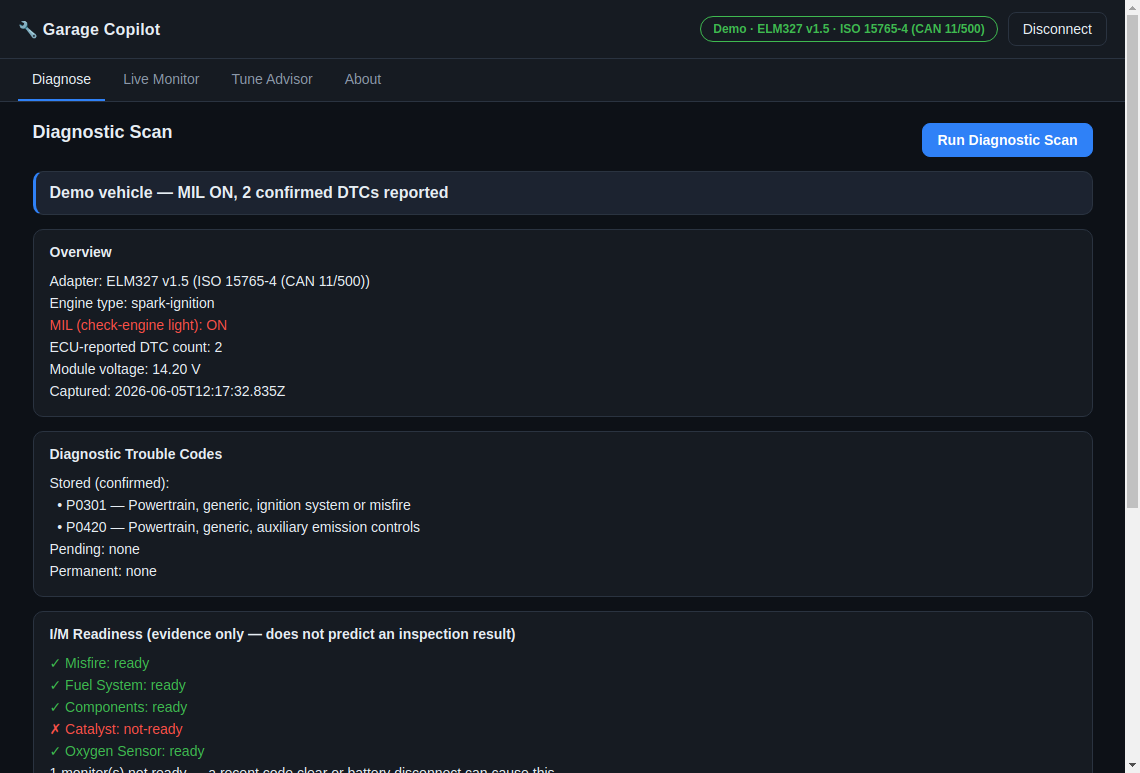
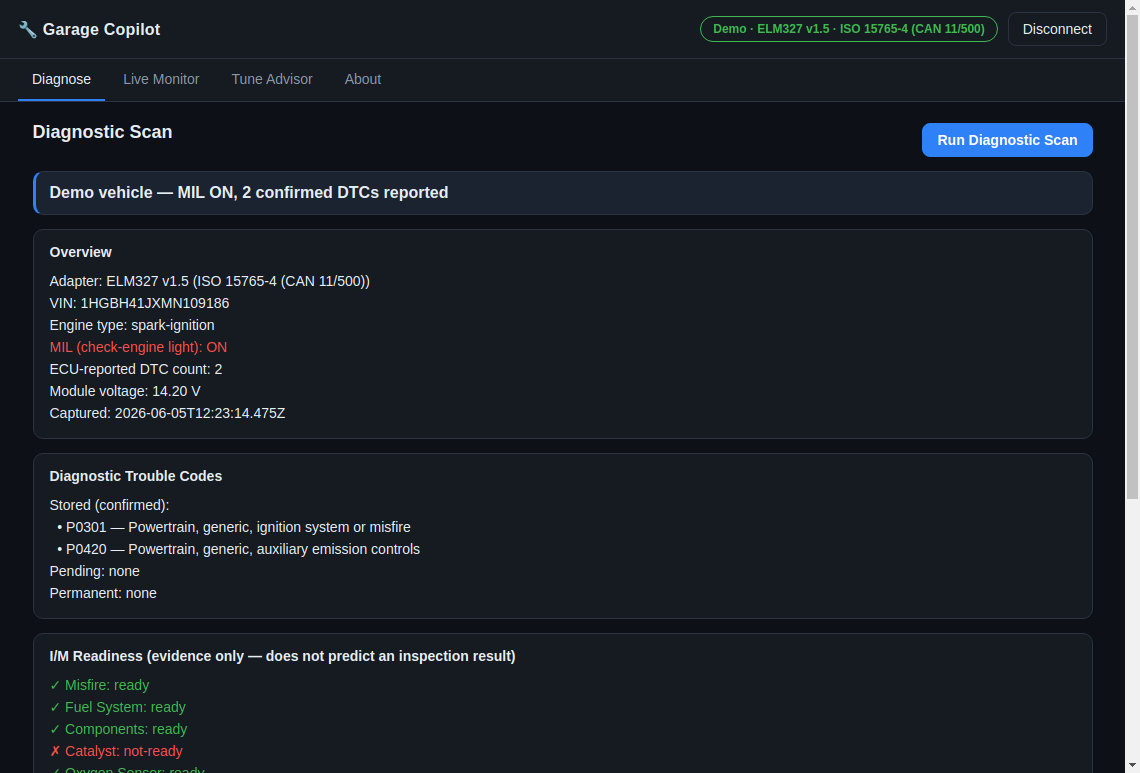
Engine: read VIN over OBD Mode 09 and surface it in diagnostics
Adds VIN reading (Mode 09 PID 02) to the ELM327 driver with a tolerant decoder
that handles single- and multi-frame ISO-TP responses (strips frame indices,
keeps printable ASCII after the 49 02 header). Threads the VIN through the
diagnostic snapshot and report overview, with a demo recording and tests
(including an isValidVin check). The desktop GUI shows it automatically via the
shared engine.

Changed region(s): [[0.0307, 0.3726, 0.3684, 0.7762], [0.0307, 0.8072, 0.4912, 1.0], [0.9825, 0.621, 1.0, 0.652]]

diff --git a/apps/garage-copilot/src/obd/vin.ts b/apps/garage-copilot/src/obd/vin.ts
@@ -1,0 +1,45 @@
+/**
+ * Decode a Mode 09 PID 02 (Vehicle Identification Number) response.
+ *
+ * The VIN comes back as ASCII bytes after a "49 02" header, often spread across
+ * several ISO-TP frames that an ELM327 prints with a leading frame index
+ * ("0:", "1:", …) and sometimes a length line. This decoder is tolerant of all
+ * of that: it strips frame indices, concatenates the bytes, and keeps the
+ * printable ASCII after the header (the count byte and any 0x00 padding are
+ * non-printable and fall away naturally). Pure; no I/O.
+ */
+
+import { parseHexBytes } from "./dtc-decode.js";
+
+/**
+ * Decode the VIN from a Mode 09 PID 02 response (one or more lines). Returns the
+ * uppercased VIN string, or undefined if no "49 02" frame is found or the result
+ * is implausibly short.
+ */
+export function decodeVinResponse(lines: string[]): string | undefined {
+  const bytes: number[] = [];
+  for (const raw of lines) {
+    // Drop an ISO-TP frame index like "0:" / "1:" that ELM327 prefixes.
+    const cleaned = raw.replace(/^[0-9A-Fa-f]+:\s*/, "");
+    bytes.push(...parseHexBytes(cleaned));
+  }
+
+  for (let i = 0; i + 1 < bytes.length; i++) {
+    if (bytes[i] === 0x49 && bytes[i + 1] === 0x02) {
+      const vin = bytes
+        .slice(i + 2)
+        .filter(b => b >= 0x20 && b <= 0x7e) // printable ASCII only (drops count + 0x00 pad)
+        .map(b => String.fromCharCode(b))
+        .join("")
+        .replace(/\s+/g, "")
+        .toUpperCase();
+      return vin.length >= 11 ? vin : undefined;
+    }
+  }
+  return undefined;
+}
+
+/** Strict 17-char VIN check (excludes I, O, Q per the standard). */
+export function isValidVin(vin: string): boolean {
+  return /^[A-HJ-NPR-Z0-9]{17}$/.test(vin.trim().toUpperCase());
+}

diff --git a/apps/garage-copilot/src/obd/vin.test.ts b/apps/garage-copilot/src/obd/vin.test.ts
@@ -1,0 +1,43 @@
+import { describe, it, expect } from "vitest";
+import { decodeVinResponse, isValidVin } from "./vin.js";
+import { Elm327Client } from "./elm327.js";
+import { ReplayTransport } from "./replay-transport.js";
+import { DEMO_VEHICLE } from "./recordings.js";
+
+const VIN = "1HGBH41JXMN109186";
+
+describe("decodeVinResponse", () => {
+  it("decodes a single-line 49 02 response", () => {
+    expect(decodeVinResponse(["49 02 01 31 48 47 42 48 34 31 4A 58 4D 4E 31 30 39 31 38 36"])).toBe(VIN);
+  });
+
+  it("decodes a multi-frame response with ISO-TP indices and 0x00 padding", () => {
+    const lines = [
+      "014",
+      "0: 49 02 01 00 00 00 31",
+      "1: 48 47 42 48 34 31 4A 58",
+      "2: 4D 4E 31 30 39 31 38 36"
+    ];
+    expect(decodeVinResponse(lines)).toBe(VIN);
+  });
+
+  it("returns undefined when no VIN frame is present", () => {
+    expect(decodeVinResponse(["NO DATA"])).toBeUndefined();
+    expect(decodeVinResponse(["41 0C 1A F8"])).toBeUndefined();
+  });
+});
+
+describe("isValidVin", () => {
+  it("accepts a valid 17-char VIN and rejects malformed ones", () => {
+    expect(isValidVin(VIN)).toBe(true);
+    expect(isValidVin("1HGBH41JXMN10918")).toBe(false); // 16 chars
+    expect(isValidVin("1HGBH41JXMN1091OO")).toBe(false); // contains O
+  });
+});
+
+describe("Elm327Client.readVin", () => {
+  it("reads the VIN from the demo vehicle", async () => {
+    const client = new Elm327Client(new ReplayTransport(DEMO_VEHICLE));
+    expect(await client.readVin()).toBe(VIN);
+  });
+});

diff --git a/apps/garage-copilot/src/obd/elm327.ts b/apps/garage-copilot/src/obd/elm327.ts
@@ -21,6 +21,7 @@ import {
   parseHexBytes,
   type MonitorStatus
 } from "./dtc-decode.js";
+import { decodeVinResponse } from "./vin.js";
 
 /** Error raised when the adapter reports a protocol/bus failure. */
 export class ObdError extends Error {
@@ -213,6 +214,20 @@ export class Elm327Client implements ObdReader {
       // Voltage is best-effort; not all adapters support ATRV.
     }
     return undefined;
+  }
+
+  async readVin(): Promise<string | undefined> {
+    try {
+      const lines = await this.send("0902");
+      this.assertNoBusError(lines, "0902");
+      if (this.isNoData(lines)) return undefined;
+      // Pass raw lines (not hexLines): VIN frames may carry an ISO-TP index
+      // prefix that decodeVinResponse strips itself.
+      return decodeVinResponse(lines);
+    } catch {
+      // VIN (mode 09) is not supported by every ECU; treat as unavailable.
+      return undefined;
+    }
   }
 
   async close(): Promise<void> {

diff --git a/apps/garage-copilot/src/diagnose/session.ts b/apps/garage-copilot/src/diagnose/session.ts
@@ -29,6 +29,8 @@ export type DiagnosticSnapshot = {
   notReadyMonitors: string[];
   livePids: DecodedPid[];
   voltage?: number;
+  /** VIN read over Mode 09, when the ECU supports it. */
+  vin?: string;
   /** Non-fatal problems encountered while reading (e.g. an unsupported PID). */
   warnings: string[];
 };
@@ -75,6 +77,9 @@ export async function runDiagnosticSession(
   }
 
   const voltage = await safe(() => reader.readVoltage(), warnings, "read voltage (ATRV)", undefined);
+  const vin = reader.readVin
+    ? await safe(() => reader.readVin!(), warnings, "read VIN (mode 09)", undefined)
+    : undefined;
 
   return {
     capturedAt: now().toISOString(),
@@ -89,6 +94,7 @@ export async function runDiagnosticSession(
     notReadyMonitors: status.monitors.filter(m => m.state === "not-ready").map(m => m.name),
     livePids,
     voltage,
+    vin,
     warnings
   };
 }

diff --git a/apps/garage-copilot/src/obd/recordings.ts b/apps/garage-copilot/src/obd/recordings.ts
@@ -36,6 +36,9 @@ export const DEMO_VEHICLE: ReplayScript = {
   "07": "NO DATA", // no pending codes
   "0A": "NO DATA", // no permanent codes
 
+  // VIN (Mode 09 PID 02): ASCII for "1HGBH41JXMN109186" after the 49 02 01 header.
+  "0902": "49 02 01 31 48 47 42 48 34 31 4A 58 4D 4E 31 30 39 31 38 36",
+
   // --- Live PIDs (idle) --------------------------------------------------
   "010C": "41 0C 0C B0", // RPM   = (256*12+176)/4 = 812 rpm
   "010D": "41 0D 00", // Speed = 0 km/h

diff --git a/apps/garage-copilot/src/diagnose/report.ts b/apps/garage-copilot/src/diagnose/report.ts
@@ -66,6 +66,7 @@ export function buildReport(snapshot: DiagnosticSnapshot, vehicleLabel?: string)
     title: "Overview",
     lines: [
       `Adapter: ${snapshot.identity.description} (${snapshot.identity.protocol})`,
+      ...(snapshot.vin ? [`VIN: ${snapshot.vin}`] : []),
       `Engine type: ${snapshot.ignitionType}-ignition`,
       `MIL (check-engine light): ${snapshot.milOn ? "ON" : "off"}`,
       `ECU-reported DTC count: ${snapshot.reportedDtcCount}`,

diff --git a/apps/garage-copilot/src/obd/reader.ts b/apps/garage-copilot/src/obd/reader.ts
@@ -34,6 +34,8 @@ export interface ObdReader {
   readLivePid(pid: string): Promise<DecodedPid | undefined>;
   /** ATRV: control-module / battery voltage in volts, when available. */
   readVoltage(): Promise<number | undefined>;
+  /** Mode 09 PID 02: the VIN, when the ECU supports it. Optional. */
+  readVin?(): Promise<string | undefined>;
   /** Release the underlying transport. */
   close(): Promise<void>;
 }

diff --git a/apps/garage-copilot/src/diagnose/session.test.ts b/apps/garage-copilot/src/diagnose/session.test.ts
@@ -21,6 +21,7 @@ describe("runDiagnosticSession against the demo vehicle", () => {
     expect(snap.pendingDtcs).toEqual([]);
     expect(snap.notReadyMonitors).toContain("Catalyst");
     expect(snap.voltage).toBe(14.2);
+    expect(snap.vin).toBe("1HGBH41JXMN109186");
     // The default PID set is sampled and decoded.
     const rpm = snap.livePids.find(p => p.pid === "0C");
     expect(rpm?.value).toBe(812);

diff --git a/apps/garage-copilot/src/index.ts b/apps/garage-copilot/src/index.ts
@@ -31,6 +31,7 @@ export {
   type ReadinessMonitor,
   type MonitorState
 } from "./obd/dtc-decode.js";
+export { decodeVinResponse, isValidVin } from "./obd/vin.js";
 
 // Diagnose
 export { runDiagnosticSession, type DiagnosticSnapshot, type SessionOptions } from "./diagnose/session.js";
